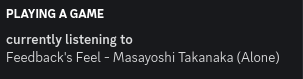
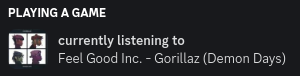
update docs for images

Changed region(s): [[0.0, 0.3947, 0.96, 0.8947], [0.0, 0.1053, 0.36, 0.2368]]

diff --git a/currently_listening_py/currently_listening_py/__main__.py b/currently_listening_py/currently_listening_py/__main__.py
@@ -49,7 +49,7 @@ def print(server_url: str) -> None:
     "--send-images/--no-send-images",
     default=False,
     is_flag=True,
-    help="send base64 encoded images to server. This caches the compression to a local cache dir",
+    help="if available, send base64 encoded images to the server. This caches compressed thumbnails to a local cache dir",
 )
 @click.option("--port", default=3040, help="local port to host on")
 def server(server_url: str, port: int, send_images: bool) -> None:

diff --git a/README.md b/README.md
@@ -138,6 +138,7 @@ This is a pretty complex source with lots of moving parts, so to summarize:
   /*************************************************************************/
   /*              currently_listening_py server (run locally)              */
   /* uses my_feed/HPI to parse/filter the raw JSON from mpv_history_daemon */
+  /*    optionally locates/caches/sends a thumbnail of the current song    */
   /*************************************************************************/
                                        |
                                        ▼
@@ -180,6 +181,20 @@ To run, first start the `currently_listening_py` server, e.g.:
 
 `currently_listening_py server --server-url https://.../currently_listening`
 
+```
+Usage: currently_listening_py server [OPTIONS]
+
+Options:
+  --server-url TEXT               remote server url  [default:
+                                  http://localhost:3030]
+  --send-images / --no-send-images
+                                  if available, send base64 encoded images to
+                                  the server. This caches compressed
+                                  thumbnails to a local cache dir
+  --port INTEGER                  local port to host on
+  --help                          Show this message and exit.
+```
+
 Then, run the `mpv_history_daemon` with the custom `SocketDataServer` class installed here
 
 `mpv_history_daemon_restart ~/data/mpv --socket-class-qualname 'currently_listening_py.socket_data.SocketDataServer'`
@@ -200,6 +215,9 @@ Usage: currently_listening_py discord-presence [OPTIONS]
 Options:
   --server-url TEXT               remote server url  [default:
                                   ws://localhost:3030/ws]
+  --image-url TEXT                endpoint for currently playing image url
+                                  [default: http://localhost:3030/currently-
+                                  listening-image]
   -d, --discord-client-id TEXT    Discord client id for setting my presence
                                   [env var: PRESENCE_CLIENT_ID]
   -D, --discord-rpc-wait-time INTEGER RANGE
@@ -234,6 +252,11 @@ The two relevant endpoints (which both require `password`: `CURRENTLY_LISTENING_
 }
 ```
 
+If a `base64_image` is provided by the client, its sent back as part of the response. This also includes an image endpoint `/currently-listening-image/`, which returns the image for the song thats currently playing, if `base64_image` was set.
+
+If requesting this from something which might cache this image, can add additional random text as part of the path, e.g.,: `/currently-listening-image/JkFJQ0hJTkdfSU1BR0U9FgF49kKFLASMRIEJKMW2340`
+
+
 `/clear-listening` which clears the current song from memory (in other words, I finished listening to the song), with `POST` body like:
 
 ```yaml
@@ -242,7 +265,7 @@ The two relevant endpoints (which both require `password`: `CURRENTLY_LISTENING_
 
 Whenever either of those are hit with a `POST` request, it broadcasts to any currently connected websockets on `/ws`
 
-`currently_listening_py` includes a `print` command which sends the `currently-playing` message to websocket:
+`currently_listening_py` includes a `print` command which sends the `currently-listening` message to websocket:
 
 `$ python3 -m currently_listening_py print --server-url 'wss://sean.fish/currently_listening/ws' | jq`
 
